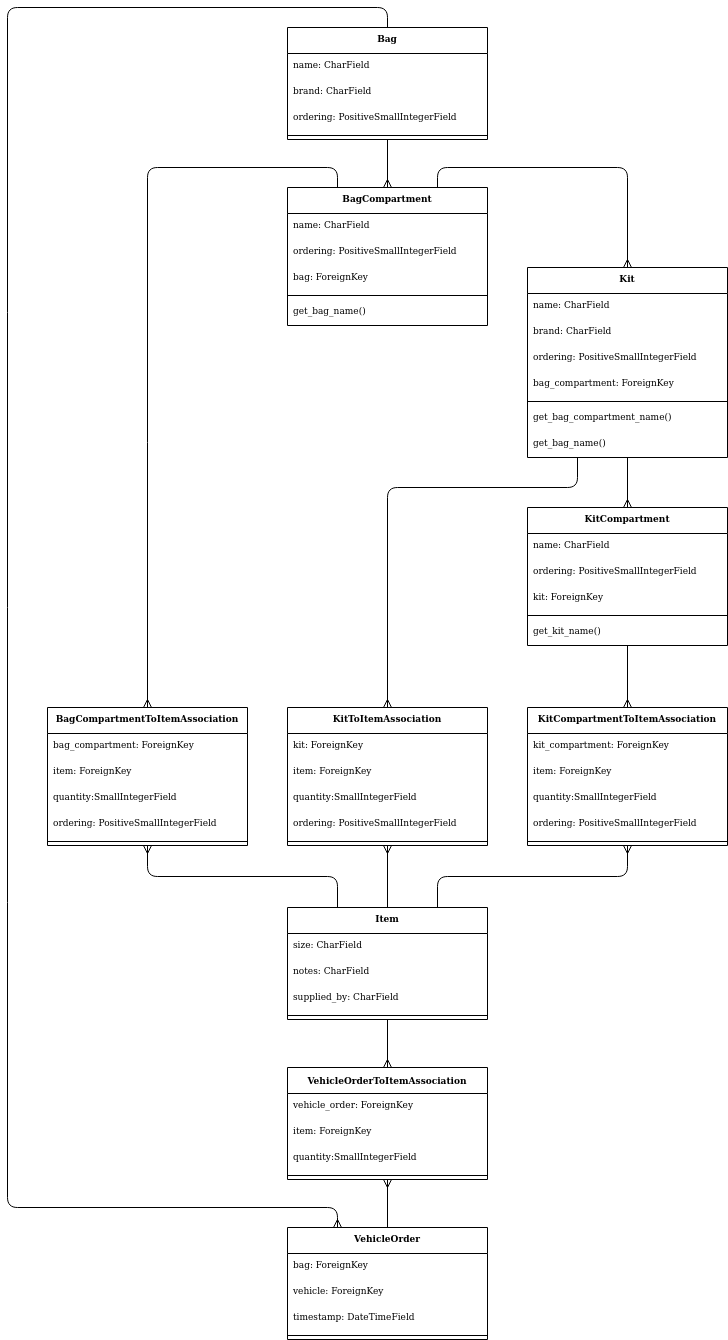
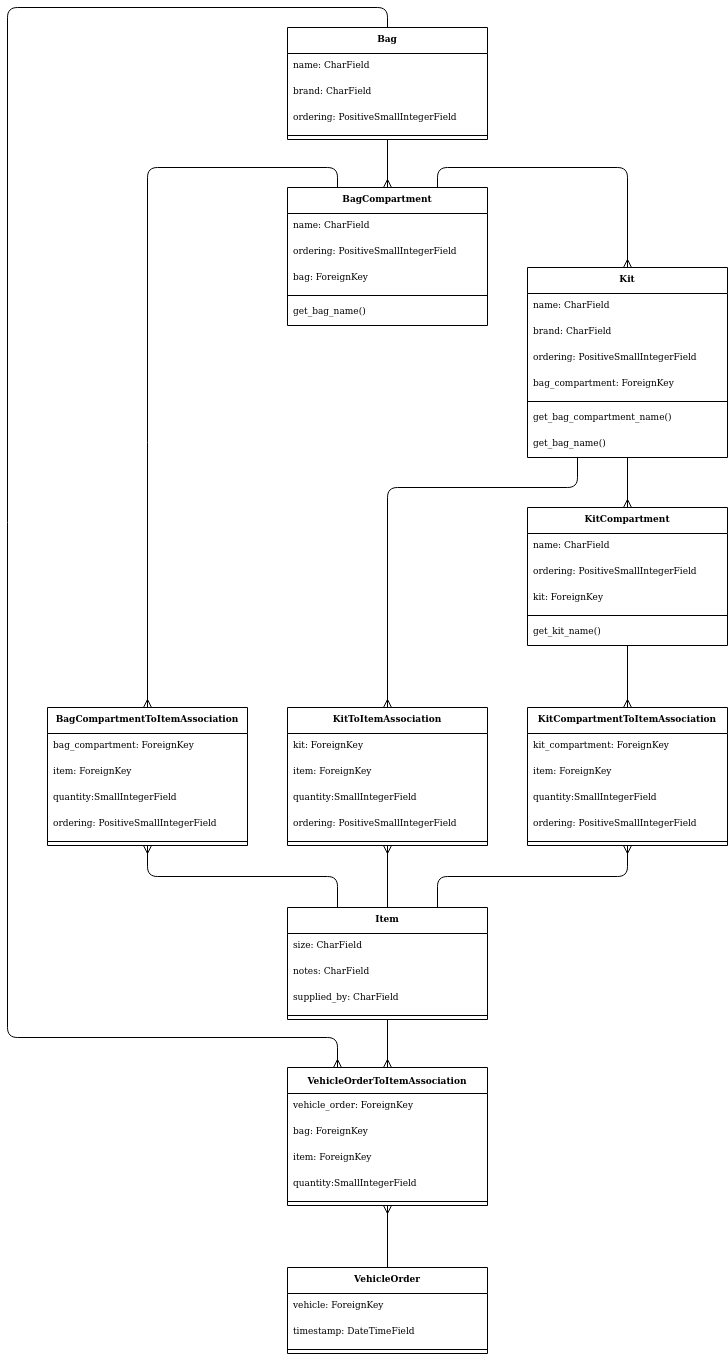
Moved 'bag' field from VehicleOrder to VehicleOrderToItemAssociation class to keep together all details about item's location that is being ordered.

diff --git a/inventory/models.py b/inventory/models.py
@@ -216,15 +216,14 @@ class Item(models.Model):
 
 
 class VehicleOrder(models.Model):
-    bag = models.ForeignKey(Bag,
-                            blank=True,
-                            null=True,
-                            on_delete=models.CASCADE)
     vehicle = models.ForeignKey('fleet.Vehicle',
                                 blank=True,
                                 null=True,
                                 on_delete=models.CASCADE)
     timestamp = models.DateTimeField(auto_now_add=True)
+
+    def __str__(self):
+        return ('%s: %s' % (self.vehicle.name, self.timestamp.strftime("%d %B, %Y at %H:%M:%S")))
 
 
 class VehicleOrderToItemAssociation(models.Model):
@@ -233,6 +232,10 @@ class VehicleOrderToItemAssociation(models.Model):
                                       blank=True,
                                       null=True,
                                       on_delete=models.CASCADE)
+    bag = models.ForeignKey(Bag,
+                            blank=True,
+                            null=True,
+                            on_delete=models.CASCADE)
     item = models.ForeignKey(Item,
                              on_delete=models.CASCADE)
     quantity = models.SmallIntegerField()

diff --git a/inventory/migrations/0012_auto_20210103_2327.py b/inventory/migrations/0012_auto_20210103_2327.py
@@ -1,0 +1,23 @@
+# Generated by Django 3.1.4 on 2021-01-03 23:27
+
+from django.db import migrations, models
+import django.db.models.deletion
+
+
+class Migration(migrations.Migration):
+
+    dependencies = [
+        ('inventory', '0011_auto_20210103_2123'),
+    ]
+
+    operations = [
+        migrations.RemoveField(
+            model_name='vehicleorder',
+            name='bag',
+        ),
+        migrations.AddField(
+            model_name='vehicleordertoitemassociation',
+            name='bag',
+            field=models.ForeignKey(blank=True, null=True, on_delete=django.db.models.deletion.CASCADE, to='inventory.bag'),
+        ),
+    ]
